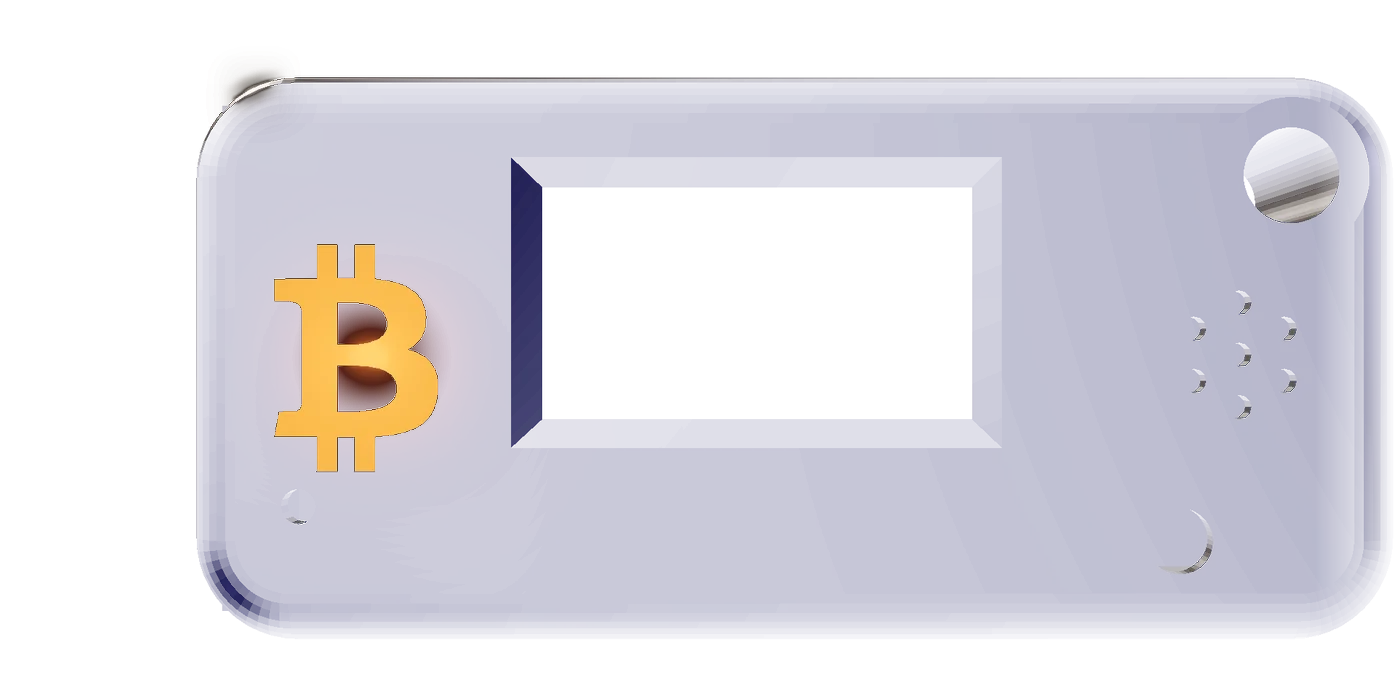
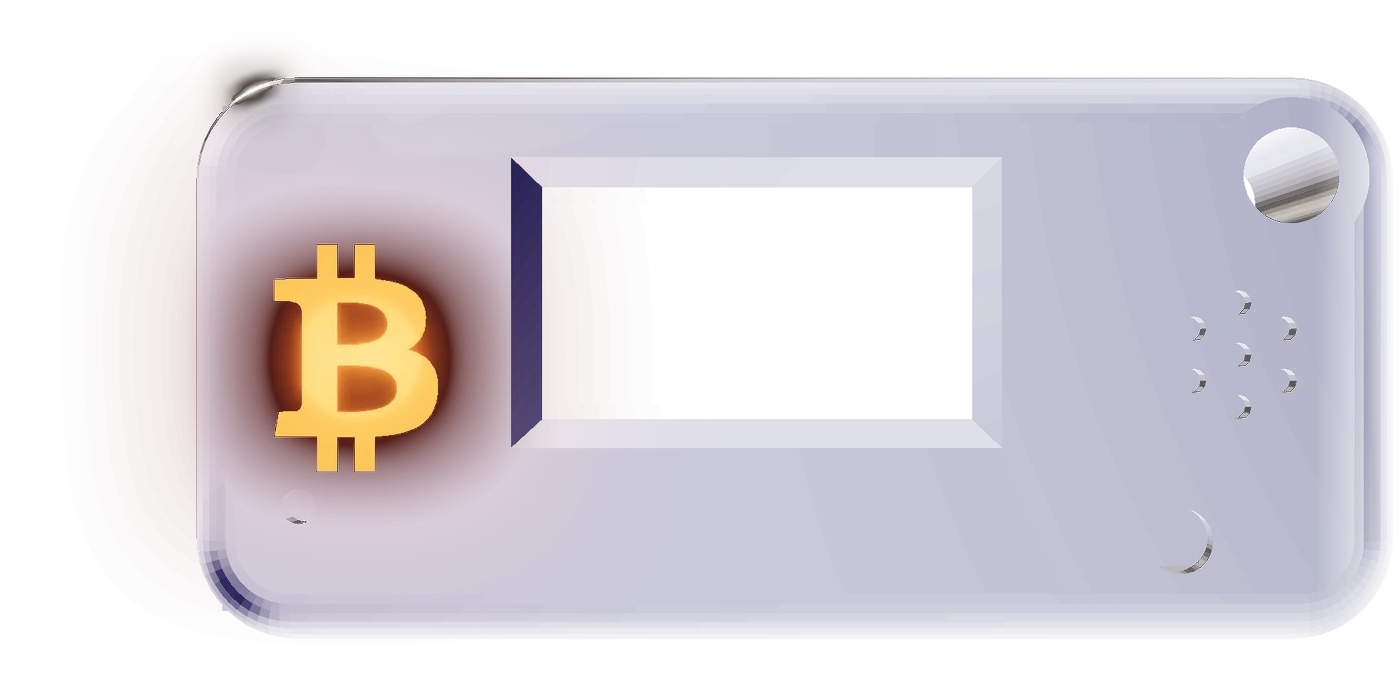
satoshipet.com: new headline and subhead, tighter gap, a bit more glow
- Hero subhead: "Kids earn sats to feed it, play to keep it happy, and
  watch their savings grow."
- How it works heading: "Make Bitcoin physical, fun and rewarding for your
  kids", now part of the pinned scene, anchored near the top instead of
  vertically centered, so the gap under the hero is much smaller.
- Device render glow raised partway back toward the hero's.

Claude-Session: https://claude.ai/code/session_01SDbv8yYPVJZewQG829CQK6

Changed region(s): [[0.1229, 0.3, 0.3686, 0.72], [0.1536, 0.09, 0.215, 0.18]]

diff --git a/app/satoshi-pet/page.tsx b/app/satoshi-pet/page.tsx
@@ -407,7 +407,7 @@ export default function SatoshiPetPage() {
                     A pocket pet that lives <span className="text-[#F7931A] sp-glow-text">on Bitcoin.</span>
                   </h1>
                   <p className="sp-rise mt-5 text-lg text-white/70 max-w-md" style={{ animationDelay: '160ms' }}>
-                    It reacts when you earn and spend sats, plays games, and makes Bitcoin something the whole family can hold.
+                    Kids earn sats to feed it, play to keep it happy, and watch their savings grow.
                   </p>
 
                   {/* Price */}
@@ -467,11 +467,6 @@ export default function SatoshiPetPage() {
             </section>
 
             {/* How it works: one pinned device whose screen follows Earn → Play → Care as you scroll */}
-            <div className="pt-16 sm:pt-24 px-4">
-              <h2 className="text-3xl sm:text-4xl font-bold tracking-tight text-balance text-center max-w-3xl mx-auto">
-                A pet that runs on real work, real play and real sats
-              </h2>
-            </div>
             <PetStory />
 
             <LeaderboardSection />

diff --git a/app/satoshi-pet/pet-story.tsx b/app/satoshi-pet/pet-story.tsx
@@ -82,8 +82,12 @@ export function PetStory() {
         : "The food menu, then the pet eating"
 
   return (
-    <section ref={sectionRef} aria-label="How Satoshi Pet works" className="relative h-[320svh]">
-      <div className="sticky top-0 flex h-[100svh] items-center overflow-hidden pt-16">
+    <section ref={sectionRef} aria-label="How Satoshi Pet works" className="relative h-[320svh] md:-mt-16">
+      <div className="sticky top-0 flex h-[100svh] flex-col gap-8 overflow-hidden pt-[clamp(4.5rem,13svh,9rem)] md:gap-12">
+        {/* The heading rides along with the pinned scene, so there's no gap above it */}
+        <h2 className="mx-auto max-w-3xl px-4 text-center text-3xl font-bold tracking-tight text-balance sm:text-4xl">
+          Make Bitcoin physical, fun and rewarding for your kids
+        </h2>
         <div className="mx-auto grid w-full max-w-6xl items-center gap-6 px-4 md:grid-cols-[minmax(0,5fr)_minmax(0,8fr)] md:gap-10">
           {/* Copy: one step at a time, sliding through as you scroll */}
           <div className="relative">
